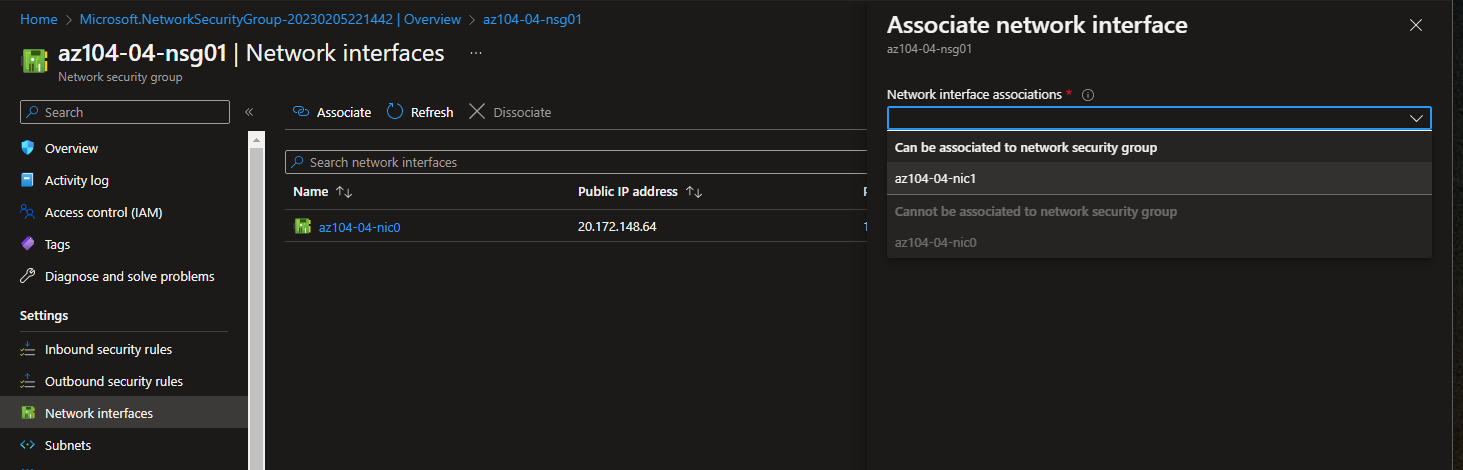
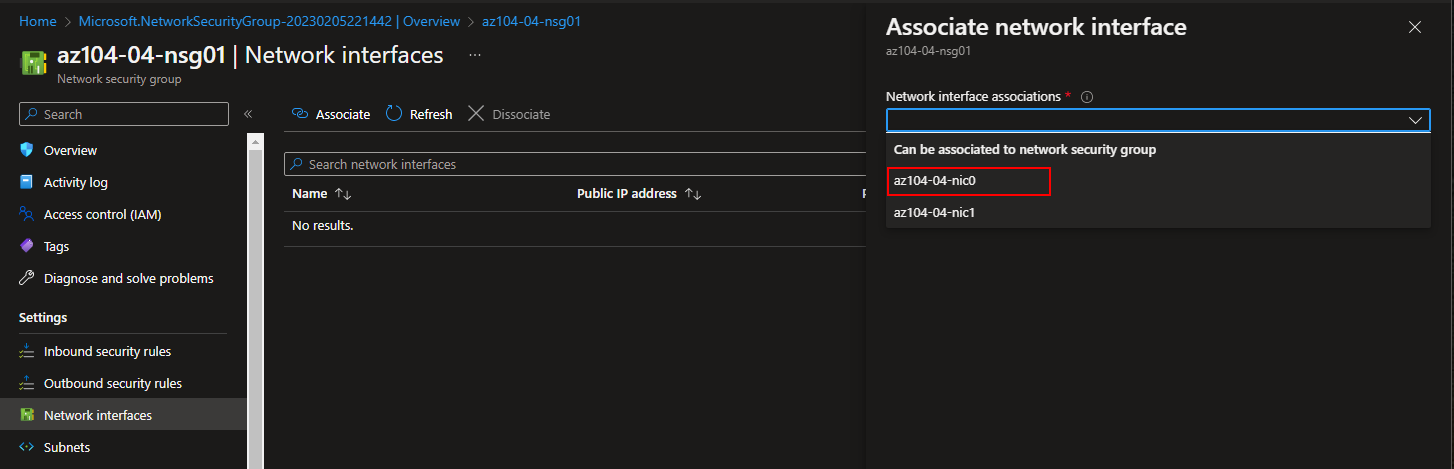
Complete lab

diff --git a/AZ-104-Lab/Networking 04a-&-b/README.md b/AZ-104-Lab/Networking 04a-&-b/README.md
@@ -107,5 +107,135 @@ Create Virtual machine in both subnets using ARM
 -In order to allow for restricted connectivity to Azure virtual machines.
 
 
+![](Image/a-6urelab-04_10_09.png)
+
+![](Image/a-6urelab-04_10_10.png)
+
+-From the error above create a network SG and then an inbound security rules to allow RDP
+
+![](Image/a-6urelab-04_10_14.png)
+
+![](Image/a-6urelab-04_10_15.png)
+
+![](Image/a-6urelab-04_10_20.png)
+
+![](Image/a-6urelab-04_10_22.png)
 
 
+-Associate the NGS to the nics
+
+![](Image/a-6urelab-04_10_23.png)
+
+![](Image/a-6urelab-04_10_24.png)
+
+![](Image/a-6urelab-04_10_26.png)
+
+
+Start both VMs
+download the RDP
+
+VM0
+
+![](Image/a-6urelab-04-06_12_35.png)
+
+![](Image/a-6urelab-04-06_12_37.png)
+
+
+VM1
+
+![](Image/a-6urelab-04-06_12_33.png)
+
+![](Image/a-6urelab-04-06_12_34.png)
+
+
+# TASK 5: Configure Azure DNS for internal name resolution
+
+In this task, you will configure DNS name resolution within a virtual network by using Azure private DNS zones.
+
+-Create Private DNS zones for internal name resolution
+
+![](Image/a-6urelab-04-06_01_00_14.png)
+
+![](Image/a-6urelab-04-06_01_02_44.png)
+
+![](Image/a-6urelab-04-06_01_03_45.png)
+
+Link
+
+![](Image/a-6urelab-04-06_01_06_15.png)
+
+![](Image/a-6urelab-04-06_01_07_44.png)
+
+![](Image/a-6urelab-04-06_01_08_26.png)
+
+![](Image/a-6urelab-04-06_01_09_50.png)
+
+![](Image/a-6urelab-04-06_01_10_02.png)
+
+Connect to the RDP session
+
+Note: I found the pasword within the ARM template
+
+    Student
+    Pa55w.rd1234
+
+Verify DNS resolution is woking
+
+![](Image/a-6urelab-04-06_01_22_02.png)
+
+
+# Task 6: configure Azure DNS for external name resolution
+
+VM public iP
+
+    az104-04-vm0 20.172.148.64
+    az104-04-vm1 20.51.160.144
+
+![](Image/a-6urelab-04-06_01_28_17.png)
+
+![](Image/a-6urelab-04-06_01_29_14.png)
+
+![](Image/a-6urelab-04-06_01_30_05.png)
+
+![](Image/a-6urelab-04-06_01_30_29.png)
+
+![](Image/a-6urelab-04-06_01_46_21.png)
+
+![](Image/a-6urelab-04-06_01_37_28.png)
+
+![](Image/a-6urelab-04-06_01_47_42.png)
+
+![](Image/a-6urelab-04-06_01_47_58.png)
+
+
+Verify that the output of the command includes the public IP address of az104-04-vm1.
+
+![](Image/a-6urelab-04-06_01_55_27.png)
+
+
+Completion map
+
+![](Image/a-6urelab-04-06_02_17_57.png)
+
+![](Image/a-6urelab-04-06_02_19_05.png)
+
+
+
+# Clean up
+
+-List all resource groups created
+
+    Get-AzResourceGroup -Name 'az104-04*'
+
+![](Image/a-6urelab-04-06_02_39_59.png)
+
+-Delete all resource groups created by this lab
+
+    Get-AzResourceGroup -Name 'az104-04*' | Remove-AzResourceGroup -Force -AsJob
+
+![](Image/a-6urelab-04-06_02_41_06.png)
+
+
+resource before deletion
+
+![](Image/a-6urelab-04-06_02_43_58.png)
